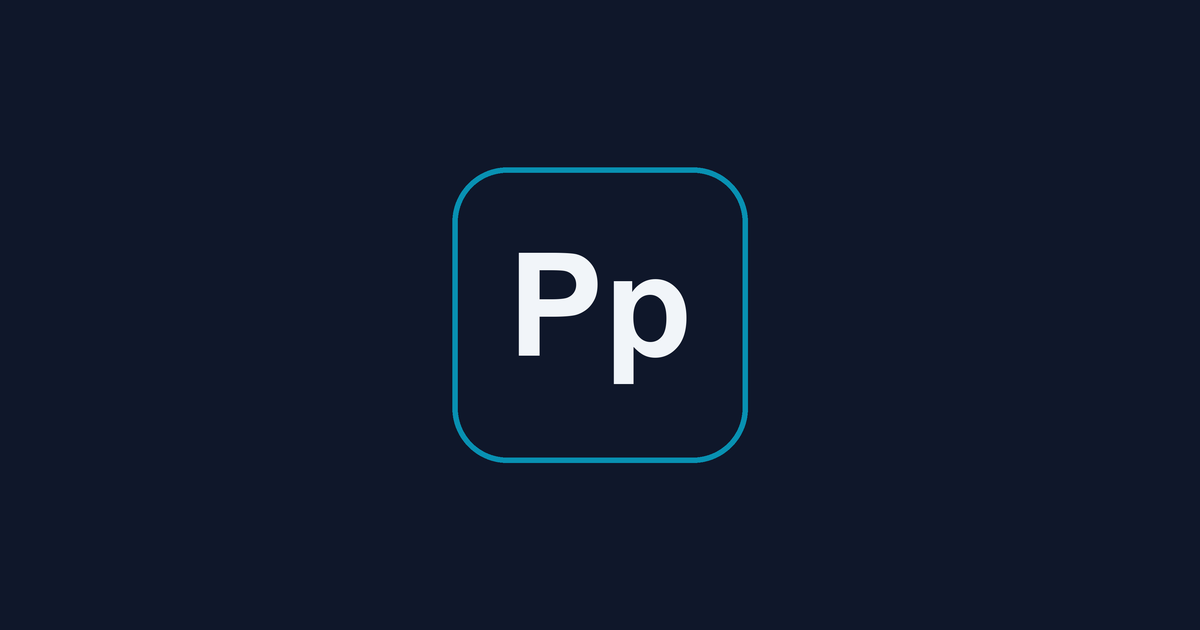
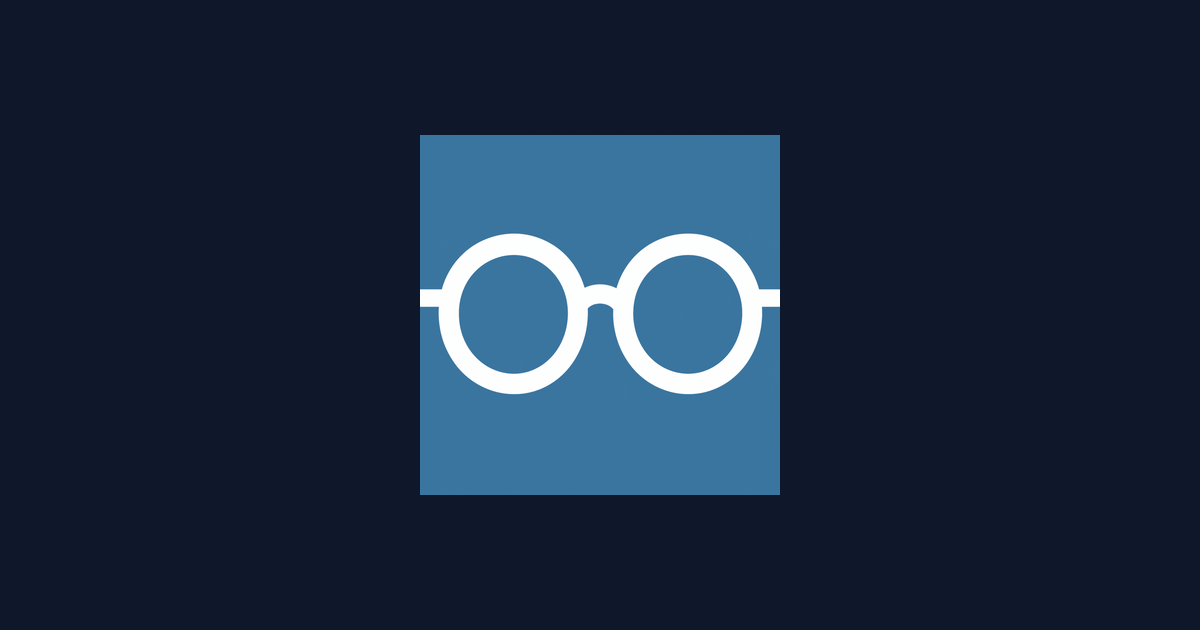
og: finish downstream arms-glasses swap + flatten tile to #3A759F
- Flattened public/logo-glasses.png background to a uniform #3A759F (color
  normalize only; glasses geometry untouched). Verified uniform.
- News OG: loadNewsAssets reads logo-glasses.png (was pp-mark.png); next.config
  outputFileTracingIncludes updated in sync so /news/** bundles it in prod.
- /about + /guides/* OG (edge runtime, self-contained): hand-drawn "Pp" replaced
  with the vector arms-glasses SVG (white on the existing #3A759F tile).
- public/og-image.png regenerated: the arms-glasses tile centered on navy
  (composite, not a redraw), replacing the old cyan-outline "Pp".

Favicon set unchanged. pp-mark.png retained (archived). NOTE: the og:image URL
hash is per-route-file, so the shared-lib change did NOT bump coupon/hub/home/
content/news URLs (only their bytes changed); about/guides route hashes did bump.

Changed region(s): [[0.3392, 0.2111, 0.6475, 0.7841]]

diff --git a/src/lib/coupon-og.tsx b/src/lib/coupon-og.tsx
@@ -411,9 +411,10 @@ const NEWS_ACCENT = "#3A759F";
 const NEWS_HAIRLINE = "#D9DEE4";
 const NEWS_MUTED = "#6B7280";
 
-// Fonts + the Pp mark tile (public/pp-mark.png — the approved 1254² opaque dark
-// square; a dark tile is exactly what the white card wants). Read from disk and
-// bundled for /news/** via outputFileTracingIncludes in next.config.js — keep in sync.
+// Fonts + the brand mark tile (public/logo-glasses.png — the arms-glasses mark,
+// 1254² opaque, flattened to #3A759F; a solid tile is exactly what the white card
+// wants). Read from disk and bundled for /news/** via outputFileTracingIncludes in
+// next.config.js — keep in sync.
 interface NewsAssets {
   mark: string;
   fonts: Assets["fonts"];
@@ -424,7 +425,7 @@ function loadNewsAssets(): Promise<NewsAssets> {
     newsAssetsPromise = (async () => {
       const root = process.cwd();
       const [mark, regular, medium, bold, extraBold] = await Promise.all([
-        readFile(join(root, "public/pp-mark.png")),
+        readFile(join(root, "public/logo-glasses.png")),
         readFile(join(root, "public/fonts/Inter-Regular.ttf")),
         readFile(join(root, "public/fonts/Inter-Medium.ttf")),
         readFile(join(root, "public/fonts/Inter-Bold.ttf")),

diff --git a/src/app/about/opengraph-image.tsx b/src/app/about/opengraph-image.tsx
@@ -66,13 +66,15 @@ export default async function Image() {
               display: "flex",
               alignItems: "center",
               justifyContent: "center",
-              color: "white",
-              fontSize: 60,
-              fontWeight: 700,
-              letterSpacing: "-0.04em",
             }}
           >
-            Pp
+            <svg width={90} height={40} viewBox="0 0 100 44" fill="none" stroke="white" strokeWidth={5} strokeLinecap="round" strokeLinejoin="round">
+              <circle cx="26" cy="24" r="16.5" />
+              <circle cx="74" cy="24" r="16.5" />
+              <path d="M9.5 18 L1 20.5" />
+              <path d="M90.5 18 L99 20.5" />
+              <path d="M43 21 L48 13.5 L52 13.5 L57 21" />
+            </svg>
           </div>
           <div style={{ display: "flex", flexDirection: "column" }}>
             <div

diff --git a/src/app/guides/peptide-research-basics/opengraph-image.tsx b/src/app/guides/peptide-research-basics/opengraph-image.tsx
@@ -66,13 +66,15 @@ export default async function Image() {
               display: "flex",
               alignItems: "center",
               justifyContent: "center",
-              color: "white",
-              fontSize: 60,
-              fontWeight: 700,
-              letterSpacing: "-0.04em",
             }}
           >
-            Pp
+            <svg width={90} height={40} viewBox="0 0 100 44" fill="none" stroke="white" strokeWidth={5} strokeLinecap="round" strokeLinejoin="round">
+              <circle cx="26" cy="24" r="16.5" />
+              <circle cx="74" cy="24" r="16.5" />
+              <path d="M9.5 18 L1 20.5" />
+              <path d="M90.5 18 L99 20.5" />
+              <path d="M43 21 L48 13.5 L52 13.5 L57 21" />
+            </svg>
           </div>
           <div style={{ display: "flex", flexDirection: "column" }}>
             <div

diff --git a/src/app/guides/syringes-and-injection/opengraph-image.tsx b/src/app/guides/syringes-and-injection/opengraph-image.tsx
@@ -66,13 +66,15 @@ export default async function Image() {
               display: "flex",
               alignItems: "center",
               justifyContent: "center",
-              color: "white",
-              fontSize: 60,
-              fontWeight: 700,
-              letterSpacing: "-0.04em",
             }}
           >
-            Pp
+            <svg width={90} height={40} viewBox="0 0 100 44" fill="none" stroke="white" strokeWidth={5} strokeLinecap="round" strokeLinejoin="round">
+              <circle cx="26" cy="24" r="16.5" />
+              <circle cx="74" cy="24" r="16.5" />
+              <path d="M9.5 18 L1 20.5" />
+              <path d="M90.5 18 L99 20.5" />
+              <path d="M43 21 L48 13.5 L52 13.5 L57 21" />
+            </svg>
           </div>
           <div style={{ display: "flex", flexDirection: "column" }}>
             <div

diff --git a/next.config.js b/next.config.js
@@ -38,10 +38,10 @@ const nextConfig = {
   experimental: {
     outputFileTracingIncludes: {
       "/coupons/**": ["./public/og/coupon-card-base.jpg", "./public/fonts/*.ttf"],
-      // News OG cards: article routes render the Pp tile (generateNewsOg → pp-mark.png);
+      // News OG cards: article routes render the brand tile (generateNewsOg → logo-glasses.png);
       // the /news hub still uses the content card (generateContentOg → coupon-card-base.jpg).
       // Both need the Inter fonts. Without this, the tracer drops the assets in prod → 500.
-      "/news/**": ["./public/pp-mark.png", "./public/og/coupon-card-base.jpg", "./public/fonts/*.ttf"],
+      "/news/**": ["./public/logo-glasses.png", "./public/og/coupon-card-base.jpg", "./public/fonts/*.ttf"],
     },
   },
   async headers() {
